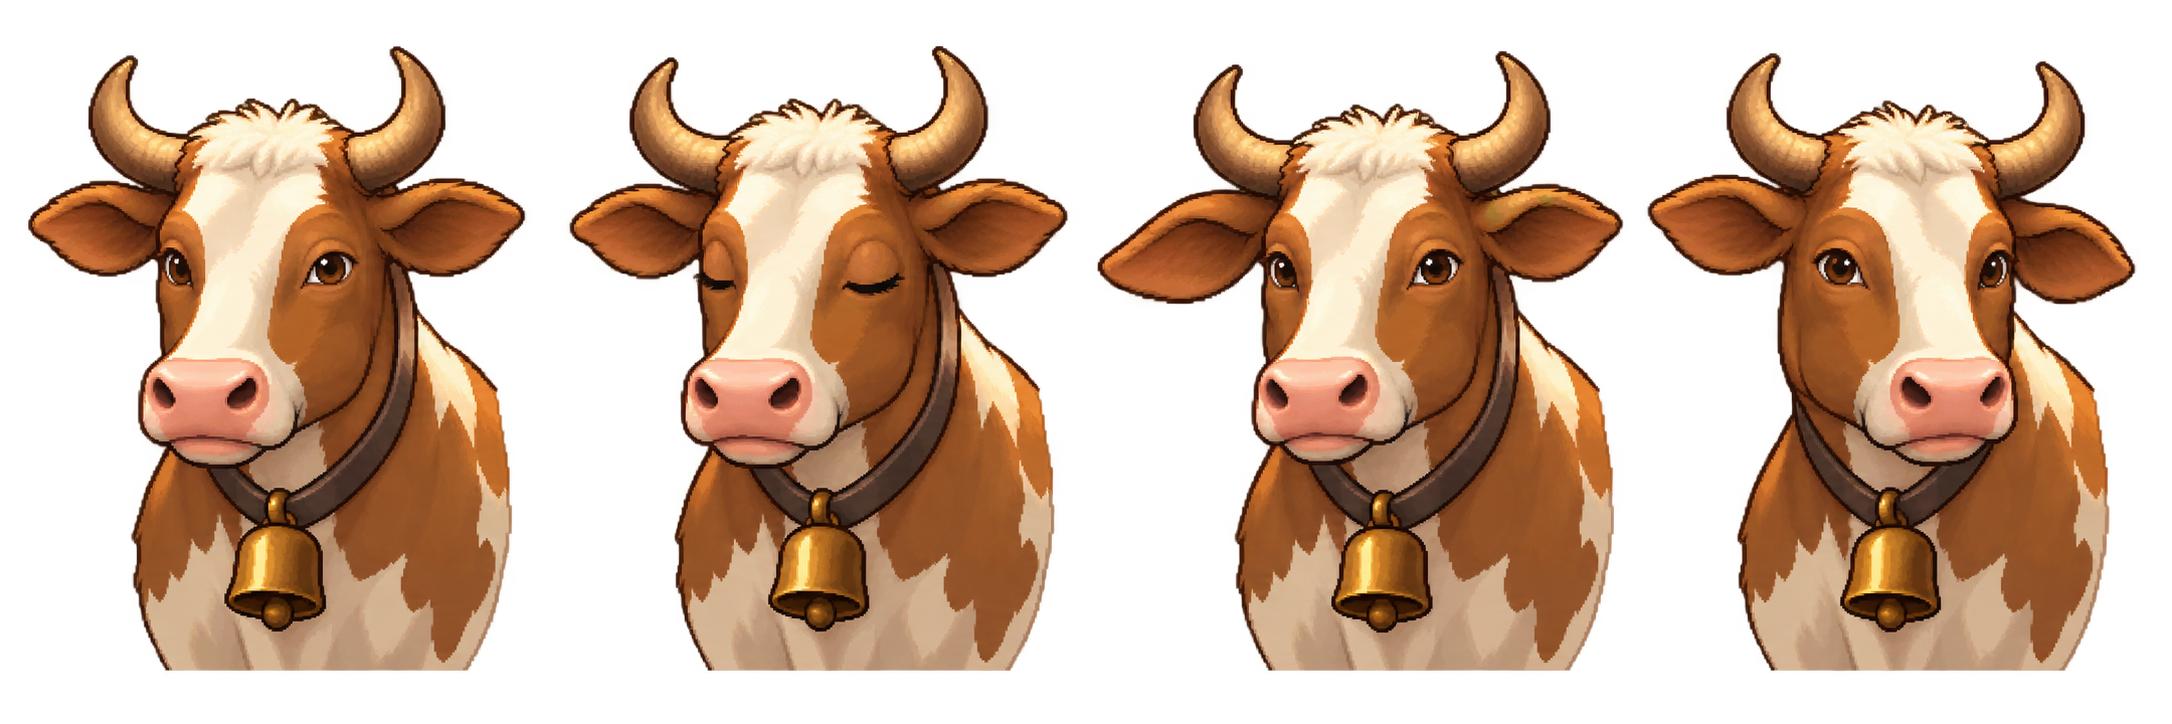
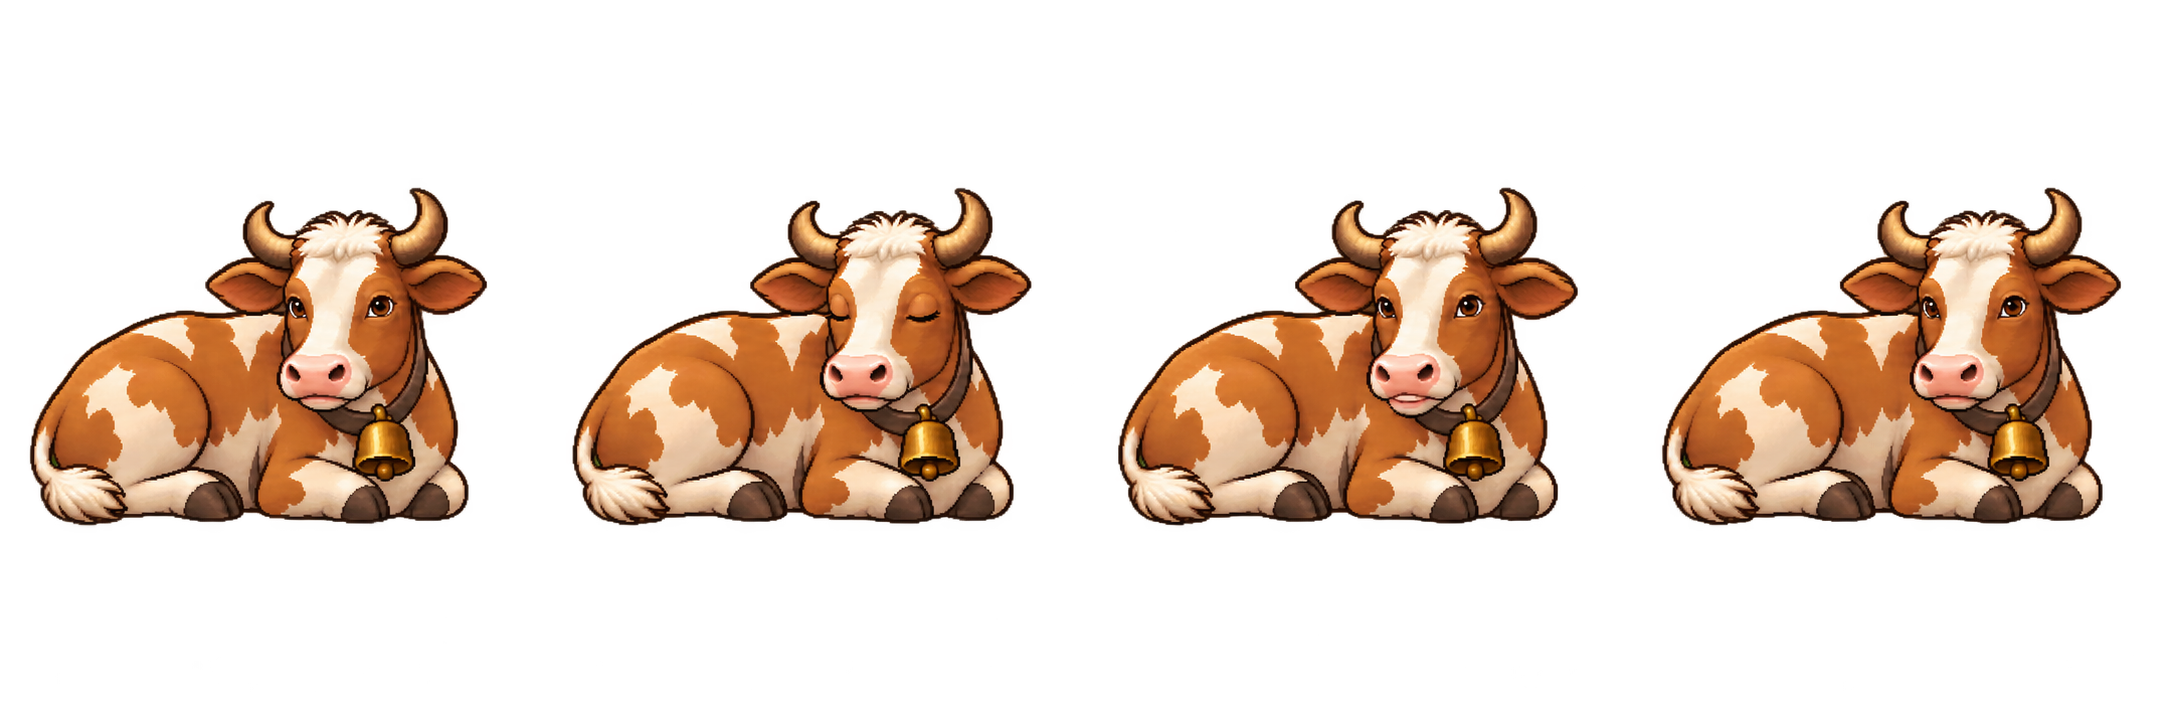
fix: clear Zurich entrance and restore airport exit
The open threshold selected the fence instead of the narrow door-leaf exit. Make the passage an exit target, remove the fence, and place a reclining animated cow farther out on the grass. Add a threshold-click regression and refresh the Linux scene baselines.

diff --git a/src/config/scenes/zurich.ts b/src/config/scenes/zurich.ts
@@ -14,7 +14,6 @@ import album from "../../assets/scenes/zurich/obj-album.png";
 import satchel from "../../assets/scenes/zurich/obj-satchel.png";
 import satchelOpen from "../../assets/scenes/zurich/obj-satchel@open.png";
 import door from "../../assets/scenes/zurich/obj-door.png";
-import fence from "../../assets/scenes/zurich/obj-fence.png";
 import cow from "../../assets/scenes/zurich/anim-garden-cow.png";
 import boat from "../../assets/scenes/zurich/anim-boat.png";
 import cuckoo from "../../assets/scenes/zurich/anim-cuckoo.png";
@@ -99,21 +98,10 @@ export const ZURICH_SCENE: SceneData = {
     {
       id: "garden-cow",
       name: "curious Swiss cow",
-      hotspot: { x: 271, y: 49, w: 32, h: 28 },
+      hotspot: { x: 269, y: 59, w: 24, h: 18 },
       interactionPoint: { x: 281, y: 102, facing: "n" },
       look: "She's here for quality control. The fondue has her full attention.",
-      use: "No, you can't come in. We discussed this at the fence.",
-    },
-    {
-      id: "garden-fence",
-      name: "garden fence",
-      sprite: fence,
-      x: 267,
-      y: 77,
-      baselineY: 95,
-      interactionPoint: { x: 287, y: 103, facing: "n" },
-      look: "The boundary between home office and dairy operations.",
-      use: "Still cow-proof. Mostly.",
+      use: "She's booked the grass suite. Excellent views, unlimited salad.",
     },
     {
       id: "fondue-bar",
@@ -183,9 +171,9 @@ export const ZURICH_SCENE: SceneData = {
       frameMs: 180,
       everyMs: 8300,
       phaseMs: 2300,
-      x: 271,
-      y: 49,
-      baselineY: 94,
+      x: 269,
+      y: 59,
+      baselineY: 77,
       clip: { x: 267, y: 20, w: 38, h: 75 },
       freezeForReducedMotion: true,
     },
@@ -272,8 +260,12 @@ export const ZURICH_SCENE: SceneData = {
       x: 302,
       y: 10,
       baselineY: 96,
-      hotspot: { x: 303, y: 21, w: 17, h: 77 },
-      interactionPoint: { x: 305, y: 106, facing: "n" },
+      hotspot: { x: 267, y: 78, w: 36, h: 20 },
+      extraHotspots: [
+        { x: 293, y: 20, w: 10, h: 58 },
+        { x: 303, y: 21, w: 17, h: 77 },
+      ],
+      interactionPoint: { x: 287, y: 106, facing: "n" },
       look: "Back to the airport. The cow has not cleared passport control.",
     },
   ],

diff --git a/scripts/assets/swiss-room.ts b/scripts/assets/swiss-room.ts
@@ -86,7 +86,6 @@ for (const [name, rect, w, h] of furniture)
   });
 const props: [string, [number, number, number, number], number, number][] = [
   ["obj-door", [120, 0, 230, 650], 20, 87],
-  ["obj-fence", [510, 310, 500, 280], 38, 21],
   ["obj-fondue", [1050, 140, 480, 460], 29, 27],
   ["anim-boat", [20, 695, 600, 280], 13, 6],
   ["anim-cuckoo", [700, 700, 345, 280], 5, 5],
@@ -104,16 +103,16 @@ const cowPoses = await Promise.all(
     crop(
       `${raw}/cow.png`,
       [frame * cowCell, 0, cowCell, cowMeta.height!],
-      32,
-      40,
+      24,
+      18,
     ),
   ),
 );
 const cowOrder = [0, 0, 1, 0, 2, 0];
 const cowStrip = await sharp({
   create: {
-    width: 64 * cowOrder.length,
-    height: 80,
+    width: 48 * cowOrder.length,
+    height: 36,
     channels: 4,
     background: clear,
   },
@@ -122,7 +121,7 @@ const cowStrip = await sharp({
     await Promise.all(
       cowOrder.map(async (pose, frame) => ({
         input: await png(cowPoses[pose]),
-        left: frame * 64,
+        left: frame * 48,
         top: 0,
       })),
     ),
@@ -146,18 +145,9 @@ const inspections = await Promise.all(
     ),
   })),
 );
-// Actual interface colours are reserved. Everything else is derived jointly,
-// so adjacent sprites and both close-ups never use independently chosen ramps.
-const fixed: Rgb[] = [
-  [42, 20, 13],
-  [56, 36, 19],
-  [48, 32, 21],
-  [184, 134, 42],
-  [247, 222, 138],
-  [244, 236, 216],
-  [95, 49, 99],
-  [68, 86, 122],
-];
+// Reuse the approved joint room/inspection palette so a new sprite cannot
+// recolour the background and every other object.
+const fixed: Rgb[] = JSON.parse(await readFile(`${raw}/palette.json`, "utf8"));
 const prepared = quantizeJointly(
   [...layers, ...inspections].map((layer) => layer.image),
   { colours: 256, fixed },

diff --git a/src/engine/__tests__/SceneEngine.test.ts b/src/engine/__tests__/SceneEngine.test.ts
@@ -1,6 +1,6 @@
 import { describe, expect, test, vi } from "vitest";
 import { CHARACTER_SHEET } from "../assets";
-import { SceneEngine, type EngineHost } from "../SceneEngine";
+import { SceneEngine, interactablesFor, type EngineHost } from "../SceneEngine";
 import { speechMs } from "../constants";
 import { SCENES, TRAVEL_MAP_DATA } from "../scenes";
 import type { SceneData, SectionId } from "../types";
@@ -54,6 +54,26 @@ const exit = (scene: SceneData, to: string) => {
 };
 
 describe("SceneEngine", () => {
+  test("clicking the open Zurich threshold returns to the airport", () => {
+    const { engine } = setup("zurich");
+    const hits = interactablesFor(SCENES.zurich, () => undefined);
+    // The passage itself, where a visitor naturally clicks to leave.
+    const hit = [...hits]
+      .reverse()
+      .find(
+        ({ rect }) =>
+          287 >= rect.x &&
+          287 < rect.x + rect.w &&
+          90 >= rect.y &&
+          90 < rect.y + rect.h,
+      );
+    expect(hit?.target.kind).toBe("exit");
+    if (!hit) throw new Error("The open threshold has no exit target");
+    engine.activate(hit.target);
+    runUntil(engine, () => engine.scene.id === "hall");
+    expect(engine.scene.id).toBe("hall");
+  });
+
   test("a souvenir opens its own inspection after walking, without opening a section", () => {
     const { engine, host } = setup();
     const souvenir = SCENES.hall.objects.find((item) => item.inspection)!;

diff --git a/test/e2e-airport.test.ts b/test/e2e-airport.test.ts
@@ -406,5 +406,15 @@ for (const reducedMotion of ["no-preference", "reduce"] as const) {
       if (reducedMotion === "reduce") expect(after[i]).toEqual(before[i]);
       else expect(after[i]).not.toEqual(before[i]);
     }
+    // Click the passage itself, not the narrow wooden door leaf. This used
+    // to select the fence and leave the visitor stranded at the entrance.
+    const bounds = await canvas.boundingBox();
+    if (!bounds) throw new Error("Missing Zurich canvas bounds");
+    await page.mouse.click(
+      bounds.x + (bounds.width * 287) / 320,
+      bounds.y + (bounds.height * 90) / 160,
+    );
+    await advanceScene(page, 6000);
+    await expect(page.locator("canvas[data-drawn=hall]")).toBeVisible();
   });
 }

diff --git a/assets-src/prompts/swiss-room.md b/assets-src/prompts/swiss-room.md
@@ -4,28 +4,28 @@ Built with the built-in imagegen tool on 2026-10-05, following the user-approved
 
 ## Direction and generation inputs
 
-The concept replaces the workstation and filing cabinet with a fondue bar, a travel album on a low table, and a document satchel hanging by the door. Sunny green foothills, snow-tipped Alps, blue Lake Zürich, honey pine, cream plaster, burgundy rug and curtains. The cow stays outdoors behind a garden fence. Match the existing London and Sorrento scene camera, character scale and relatively coarse painted pixel finish. No corporate-office furniture, miniature railway, ticket machine, landscape wall picture or indoor cow.
+The concept replaces the workstation and filing cabinet with a fondue bar, a travel album on a low table, and a document satchel hanging by the door. Sunny green foothills, snow-tipped Alps, blue Lake Zürich, honey pine, cream plaster, burgundy rug and curtains. The cow lies on the grass farther outside the open entrance, leaving a clear passage in front and beside it. No fence. Match the existing London and Sorrento scene camera, character scale and relatively coarse painted pixel finish. No corporate-office furniture, miniature railway, ticket machine, landscape wall picture or indoor cow.
 
 The concept was the reference for each room generation. Each separate sprite request specified transparent alpha, whole silhouettes, warm daylight, dark brown contours, coarse stepped edges and no surrounding shadows, haze, labels or UI. The first furniture sheet's alpha was refined with a second built-in background-removal pass. The master retains transparent RGB; the export clears invisible pixels before trimming.
 
 - **Background:** exact 2:1 room plate, no toolbar, character, bar, stool, table, album, satchel, cow, fence, door leaf, boat, pendulum, cuckoo or steam. Reconstruct wall, floor and garden behind removed objects. Retain window, view, curtains, rug, shelf/crockery, clock casing and bare peg.
 - **Furniture sheet:** bar with bread and cheese but no pot; table with mug but no album; stool; open travel album; closed satchel; open satchel. Keep both satchel bodies at the same scale and registration.
 - **Props sheet:** open wooden door leaf; six-picket fence; fondue pot and burner with forks but no steam; small lake boat; cuckoo bird. The spare flame cell is not exported: its glow would be distracting at game size.
-- **Cow sheet:** resting, blinking, chewing/ear movement, and a further resting pose, one row, fixed scale and chest anchor, head and upper chest only. The fourth pose changes the face too much and is not exported. The resting pose is held between short animation cycles.
+- **Cow sheet (revised):** four full-body reclining poses in equal cells with transparent gutters: awake, blink, small chew/ear flick, awake. Brown-and-white Swiss cow with a brass bell, legs tucked under its belly, body extending left and raised head at right. Preserve one scale and ground baseline. No grass, fence, shadow, text or background in the sprite. Built-in imagegen produced the revised sheet; a second pass added separation between cells. Export the first three poses at 24×18 logical pixels and hold the resting pose between gestures.
 - **Experience:** near-frontal open burgundy travel scrapbook, Sorrento/London/Swiss mementos and an old floppy disk on the left, quiet cream page on the right. No painted professional text. This is the user-approved close-up.
 - **Resume:** one upright front-facing cream document in a burgundy folio, brass clip above the reading area, modest open satchel partly behind it at left, blue fountain pen, sparse timber/garden background. Avoid the rejected low, perspective-tilted writing surface and oversized bag. No painted professional text.
 
 ## Reproduction
 
-Run `node --import tsx scripts/assets/swiss-room.ts`. Rectangles measured from the retained sheets are recorded in that recipe. It cuts and registers the sprites, clears/thresholds alpha, samples at two art pixels per logical pixel, then jointly derives one 256-colour palette for background, sprites, cow frames and both reading surfaces. It reserves the actual UI ink, cream, brass and country accent colours. There is no universal palette for the existing painted scenes; matching uses their colour families plus these shared anchors.
+Run `node --import tsx scripts/assets/swiss-room.ts`. Rectangles measured from the retained sheets are recorded in that recipe. It cuts and registers the sprites, clears/thresholds alpha, samples at two art pixels per logical pixel, then maps to the approved shared 256-colour palette in `assets-src/approved/swiss-room/palette.json`. That palette was originally derived jointly from the room and reading surfaces, reserving the actual UI ink, cream, brass and country accent colours. Keeping it fixed prevents a revised sprite from recolouring the entire room. There is no universal palette for the existing painted scenes; matching uses their colour families plus these shared anchors.
 
 The density-4 remaster files enlarge the density-2 pixels with nearest-neighbour. They do not recover extra smooth detail. The original and remaster folders have matching assets. Full-quality source masters are retained; the normal build still handles delivery compression.
 
 ## Layer behaviour
 
-The background is static. Bar/stool/table use independent floor baselines and walking exclusions. Album shares the table's depth and opens Experience. Satchel has resting/open states and opens Resume. Cow renders at depth 94, fence at 95, door at 96, all behind an indoor character. Cow animation is clipped to the doorway; the boat and water glints are clipped to the lake. Steam, glints and clock pendulum are existing procedural effects. Cuckoo is a periodic moving prop. Reduced motion freezes the cow and pendulum and suppresses the bird's appearance.
+The background is static. Bar/stool/table use independent floor baselines and walking exclusions. Album shares the table's depth and opens Experience. Satchel has resting/open states and opens Resume. Cow renders at depth 77 on the outdoor grass; the door at 96 stays behind an indoor character. The fence layer is removed. Cow animation is clipped to the doorway; the boat and water glints are clipped to the lake. Steam, glints and clock pendulum are existing procedural effects. Cuckoo is a periodic moving prop. Reduced motion freezes the cow and pendulum and suppresses the bird's appearance.
 
-The doorway stays open, preserving the approved outdoor view and fixed sunlight. The door leaf remains an exit hotspot. No new closed-door pose is needed yet.
+The doorway stays open, preserving the approved outdoor view and fixed sunlight. The open threshold, passage beside the cow and door leaf are exit hotspots. The cow retains its own separate interaction target. No new closed-door pose is needed yet.
 
 ## Iteration status
 

diff --git a/README.md b/README.md
@@ -24,12 +24,12 @@ A painted Daniele is your guide through the three countries he has lived in. Eac
 
 The game opens with a boarding pass. Press Space and you arrive in an airport.
 
-| Place                  | What's there                                                      | Sections           |
-| ---------------------- | ----------------------------------------------------------------- | ------------------ |
-| **The airport hall**   | Three gates, a duty-free shop and a few waiting passengers        | The way to all     |
-| **A Sorrento kitchen** | A view of the Gulf of Naples, a postcard and a telephone          | About, Contact     |
-| **A London pub**       | A rainy evening, a chalkboard of skills and a jukebox             | Skills             |
-| **A Zürich chalet**    | A sunny fondue room, a travel album and a cow at the garden fence | Experience, Resume |
+| Place                  | What's there                                                  | Sections           |
+| ---------------------- | ------------------------------------------------------------- | ------------------ |
+| **The airport hall**   | Three gates, a duty-free shop and a few waiting passengers    | The way to all     |
+| **A Sorrento kitchen** | A view of the Gulf of Naples, a postcard and a telephone      | About, Contact     |
+| **A London pub**       | A rainy evening, a chalkboard of skills and a jukebox         | Skills             |
+| **A Zürich chalet**    | A sunny fondue room, a travel album and a cow resting outside | Experience, Resume |
 
 - **Travel.** Walk through a gate and you fly there over a sepia map of Europe, _Fate of Atlantis_ style. Click to skip the flight.
 - **The travel trunk.** The toolbar is a painted trunk with a SCUMM-style sentence line. It holds one boarding pass per city, listing the sections that live there. Click a section and it opens right away, wherever you are.
